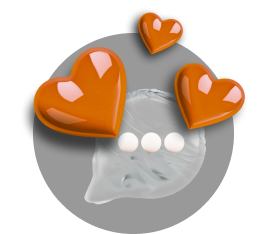
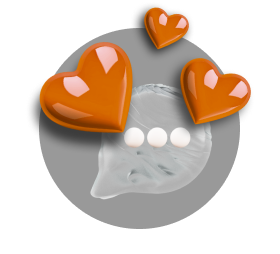
Fixed mobile styles of Navigation, EMBlock, and EduInfo.

diff --git a/src/components/home/EMBlock.vue b/src/components/home/EMBlock.vue
@@ -1,48 +1,46 @@
-<!-- FIXME This block fully and the button must be seen from the beginning -->
 <template>
   <div class="flex flex-col items-center relative w-full h-[80%] md:mt-[0.5rem]">
     <!-- Above bulb -->
     <div class="flex flex-col items-center">
       <h1 class="text-white font-geologicaBold 
-        text-[3.7rem] mb-0 mt-[2rem] md:text-[4.8rem] md:mb-[-0.5rem] md:mt-[1rem]">
+        text-[3.2rem] mb-[-0.5rem] md:text-[4.8rem] md:mb-[-0.5rem] md:mt-[1rem]">
         Exa<span class="text-minds">Minds</span></h1>
-      <h4 class="text-white text-center font-interBold
-      text-[0.8rem] mt-0 mb-0 md:text-[1.2rem]">
+      <h4 class="text-white text-center font-interSemiBold
+      text-[0.65rem] mb-0 md:text-[1.2rem]">
         Лучшие революционные курсы с топовыми
         <br v-if="screenWidth < 768" />
         преподавателями и гибким графиком
       </h4>
       <p class="text-white text-center font-interRegular
-      text-[0.7rem] mt-[0.5rem] md:text-base md:mt-0">
+      text-[0.6rem] mt-1 md:text-base md:mt-0">
         Меняем подход к образованию и
         <br v-if="screenWidth < 768" />
         вдохновляем любовь к учёбе у детей
       </p>
     </div>
 
-    <!-- Around the light bulb -->
-    <div class="w-full relative max-w-[398px] md:max-w-[975px]">
+    <!-- ///// Around the light bulb ///// -->
+    <div class="w-full relative max-w-[398px] md:max-w-[975px] mt-1">
       <!-- Bulb image -->
       <div class="flex flex-col items-center justify-center">
-        <img :src="bulbPath" class="mix-blend-color-dodge" />
+        <img :src="bulbPath" class="mix-blend-color-dodge w-[70%]" />
       </div>
 
-
       <div v-for="(achievement, index) in achievements" :key=index :class="achievement.class">
-        <h3 class="emBigTexts text-transparent text-[1.7rem] text-center font-interBold mb-0
-        text-[1.7rem] md:text-[3.6rem]">
+        <h3 class="emBigTexts text-transparent text-center font-interBold mb-[-0.2rem]
+        text-[1.4rem] md:text-[3.6rem]">
           {{ achievement.bigText }}
         </h3>
-        <h5 class="text-white text-[0.7rem] text-center font-interRegular mt-0
-        text-[0.7rem] md:text-[1.1rem]">
+        <h5 class="text-white text-center font-interRegular mt-0
+        text-[0.6rem] md:text-[1.1rem]">
           {{ achievement.smallText }}
         </h5>
       </div>
 
       <!-- Registration button -->
       <button class="registerButton text-white tracking-[1.5px] font-interBold cursor-pointer z-2
-      absolute left-1/2 right-1/2 transform -translate-x-1/2 -translate-y-1/2 
-      top-[290px] text-[0.8rem] w-[250px] h-[60px] 
+      absolute left-[50%] ml-[-125px]
+      top-[210px] text-[0.8rem] w-[250px] h-[60px] 
       md:top-[520px] md:text-[1rem] md:w-[379px] md:h-[80px]" 
       @click="toRegister">
         РЕГИСТРАЦИЯ
@@ -51,7 +49,7 @@
 
     <!-- Dust image -->
     <div class="flex flex-col items-center justify-center">
-      <img :src="dustPath" class="mix-blend-lighten mt-[-3rem] h-auto
+      <img :src="dustPath" class="mix-blend-lighten mt-[-2.5rem] h-auto
       w-screen z-1 md:mt-[-4.5rem] md:w-full" />
     </div>
   </div>
@@ -72,22 +70,22 @@ export default {
       dustPath: window.innerWidth < 767 ? dustMobile : dustDesktop,
       achievements: [
         {
-          class: "absolute w-[120px] top-[30px] left-[5px] md:w-[200px] md:top-[80px] md:left-[20px]",
+          class: "absolute top-[48px] left-[25px] md:top-[80px] md:left-[20px]",
           bigText: "6 лет",
           smallText: window.innerWidth < 767 ? "Готовим к экзамену" : "Профессионально готовим к экзаменам",
         },
         {
-          class: "absolute top-[30px] right-[10px] md:top-[80px] md:right-[20px]",
+          class: "absolute top-[48px] right-[30px] md:top-[80px] md:right-[20px]",
           bigText: "20",
           smallText: "Стобалльников",
         },
         {
-          class: "absolute top-[90px] left-[40px] md:top-[280px] md:left-[120px]",
+          class: "absolute top-[105px] left-[55px] md:top-[280px] md:left-[120px]",
           bigText: "600+",
           smallText: "Выпускников",
         },
         {
-          class: "absolute w-[80px] top-[90px] right-[40px] md:w-auto md:top-[280px] md:right-[85px]",
+          class: "absolute top-[105px] right-[58px] md:top-[280px] md:right-[85px]",
           bigText: "70+",
           smallText: window.innerWidth < 767 ? "Средний балл" : "Средний балл учеников",
         }

diff --git a/src/components/home/EduInfo.vue b/src/components/home/EduInfo.vue
@@ -1,5 +1,4 @@
-<!-- FIXME The positioning of the elements are scrambled -->
-<!-- FIXME The size of images are too big (at least for mobile) -->
+<!-- FIXME The positioning of the elements are scrambled (for PC) -->
 <template>
   <div class="mt-[6rem] lg:mt-[-13rem] lg:min-h-[1930px]">
     <p class="text-[1.3rem] mb-[0.5rem] text-white text-center font-geologicaBold 
@@ -9,8 +8,8 @@
     </p>
     <div class="relative min-h-[1100px] max-w-[1100px]">
       <div v-for="(eduInfo, index) in eduInfos" :key="index" :class="screenWidth < 1000 ? 'flex flex-col items-center justify-center' : eduInfo.divClass" class="mt-[1.5rem] lg:m-auto">
-        <img :src="eduInfo.img" class="w-[80%] lg:w-auto" :class="eduInfo.imgClass" v-if="index !== 4 || screenWidth < 1000" />
-        <p v-html="eduInfo.text" class="text-white text-center mt-0 font-interRegular lg:mt-auto lg:text-[1.2rem] lg:mb-0"></p>
+        <img :src="eduInfo.img" class="lg:w-auto" :class="eduInfo.imgClass" v-if="index !== 4 || screenWidth < 1000" />
+        <p v-html="eduInfo.text" class="text-white text-center text-[0.85rem] leading-[1.1rem] mt-1 font-interRegular lg:mt-auto lg:text-[1.2rem] lg:mb-0"></p>
         <!-- The position of the text and the image is reversed for PC -->
         <img :src="eduInfo.img" class="w-[80%] lg:w-auto" :class="eduInfo.imgClass" v-if="index === 4 && screenWidth > 1000" />
       </div>
@@ -36,8 +35,15 @@ export default {
   name: "EduInfo",
   data() {
     return {
-      screenWidth: window.innerWidth,
-      eduInfos: [
+      screenWidth: 0
+    }
+  },
+  mounted() {
+    this.screenWidth = window.innerWidth
+  },
+  computed: {
+    eduInfos() {
+      return [
         { // Laptop
           text: `
           На платформе размещаются<br class="lg:hidden" /><br class="hidden lg:inline" />
@@ -45,7 +51,7 @@ export default {
           и практикой
           `,
           img: this.screenWidth < 1000 ? laptopMobile : laptopDesktop,
-          imgClass: "mr-[2rem] lg:mr-auto",
+          imgClass: "w-[63%] lg:w-auto",
           divClass: "lg:absolute lg:left-[1rem]"
         },
         { // Notebook and Pen
@@ -53,8 +59,8 @@ export default {
             Домашние задания <span class="text-minds font-interSemiBold">после<br class="hidden lg:inline" />
             <br class="lg:hidden" />каждого</span> видео-урока
           `,
-          img: this.screenWidth < 1000 ? notebookPenDesktop : notebookPenMobile,
-          imgClass: "ml-[1rem] lg:ml-auto",
+          img: this.screenWidth < 1000 ? notebookPenMobile : notebookPenDesktop,
+          imgClass: "w-[55%] lg:w-auto",
           divClass: "lg:absolute lg:right-[1rem]"
         },
         { // Puzzle
@@ -64,7 +70,7 @@ export default {
             изучен материал
           `,
           img: this.screenWidth < 1000 ? puzzleMobile : puzzleDesktop,
-          imgClass: "mr-[4rem] lg:mr-auto",
+          imgClass: "w-[72%] lg:w-auto",
           divClass: "lg:absolute lg:top-[55%] lg:left-[1rem]"
         },
         { // Chat and Hearts
@@ -74,7 +80,7 @@ export default {
             чтобы<br class="hidden lg:inline" /> улучшить результаты
           `,
           img: this.screenWidth < 1000 ? chatHeartsMobile : chatHeartsDesktop,
-          imgClass: "mr-[0.5rem] mb-[1rem] lg:mr-auto lg:mb-auto",
+          imgClass: "w-[62%] lg:w-auto",
           divClass: "lg:absolute lg:top-[52%] lg:right-[1rem]"
         },
         { // Paper and Approved
@@ -84,7 +90,7 @@ export default {
             на прямом эфире
           `,
           img: this.screenWidth < 1000 ? papersApprovedMobile : papersApprovedDesktop,
-          imgClass: "",
+          imgClass: "w-[68%] lg:w-auto",
           divClass: "lg:absolute lg:top-[20rem] lg:left-[30%] lg:z-3"
         }
       ]

diff --git a/src/components/home/Navigation.vue b/src/components/home/Navigation.vue
@@ -1,7 +1,8 @@
 <template>
-  <div class="flex flex-row items-center justify-between h-16 mt-4 w-[95%] sm:w-[90%] lg:w-4/5">
+  <div class="flex flex-row items-center justify-between h-16 w-full mt-4 px-4 lg:w-4/5">
+    <!-- Главная -->
     <div class="flex flex-col items-center">
-      <button :class="['text-xs border-none cursor-pointer font-interRegular mb-2 md:text-xl md:mb-0',
+      <button :class="['text-[0.6rem] border-none cursor-pointer font-interRegular mb-2 md:text-xl md:mb-0',
         activeIndex === 0 ? 'text-[#F96F16]' : 'text-white']" 
         @click="setActive(0)">
           Главная
@@ -12,17 +13,19 @@
       </div>
     </div>
 
+    <!-- О нас -->
     <div class="flex flex-col items-center">
-      <button :class="['text-xs border-none cursor-pointer font-interRegular mb-2 md:text-xl md:mb-0',
+      <button :class="['text-[0.6rem] border-none cursor-pointer font-interRegular mb-2 md:text-xl md:mb-0',
         activeIndex === 1 ? 'text-[#F96F16]' : 'text-white']" 
         @click="setActive(1)">
-          О нас
+          О <br class="md:hidden" /> нас
       </button>
       <div class="w-3 h-3 rounded-full bg-[#F96F16] transition-[left] duration-300 ease-in-out md:hidden" :class="{ 'opacity-0': activeIndex !== 1 }"></div>
     </div>
 
+    <!-- Преподаватели -->
     <div class="flex flex-col items-center">
-      <button :class="['text-xs border-none cursor-pointer font-interRegular mb-2 md:text-xl md:mb-0',
+      <button :class="['text-[0.6rem] border-none cursor-pointer font-interRegular mb-2 md:text-xl md:mb-0',
         activeIndex === 2 ? 'text-[#F96F16]' : 'text-white']" 
         @click="setActive(2)">
           Преподаватели
@@ -30,20 +33,22 @@
       <div class="w-3 h-3 rounded-full bg-[#F96F16] transition-[left] duration-300 ease-in-out md:hidden" :class="{ 'opacity-0': activeIndex !== 2 }"></div>
     </div>
     
+    <!-- Пробные экзамены -->
     <!-- TODO Functionality of "Evaluation" -->
     <div class="flex flex-col items-center">
-      <button :class="['text-xs border-none cursor-pointer font-interRegular mb-2 md:text-xl md:mb-0',
+      <button :class="['text-[0.6rem] border-none cursor-pointer font-interRegular mb-2 md:text-xl md:mb-0',
         activeIndex === 3 ? 'text-[#F96F16]' : 'text-white']" 
         @click="setActive(3)">
-          Пробные <br v-if="screenWidth < 768" /> экзамены
+          Пробные <br class="md:hidden" /> экзамены
       </button>
       <div class="w-3 h-3 rounded-full bg-[#F96F16] transition-[left] duration-300 ease-in-out md:hidden" :class="{ 'opacity-0': activeIndex !== 3 }"></div>
     </div>
 
+    <!-- ВОЙТИ -->
     <!-- FIXME Button border colour is a linear-gradient -->
     <div class="flex flex-col items-center">
-      <button class="navsignin bg-[rgba(217,217,217,0.3)] border-2 border-[#F96F16] 
-        rounded-[10px] text-[#F96F16] cursor-pointer font-interSemiBold
+      <button class="navsignin border-2 border-[#F96F16] rounded-[10px] bg-[#d9d9d94c]
+        text-[#F96F16] cursor-pointer font-interSemiBold
         text-[0.768rem] w-[100px] h-[37px] mb-2 
         md:text-xl md:w-[180px] md:h-[60px] md:mb-0" 
         @click="showLoginToast">
